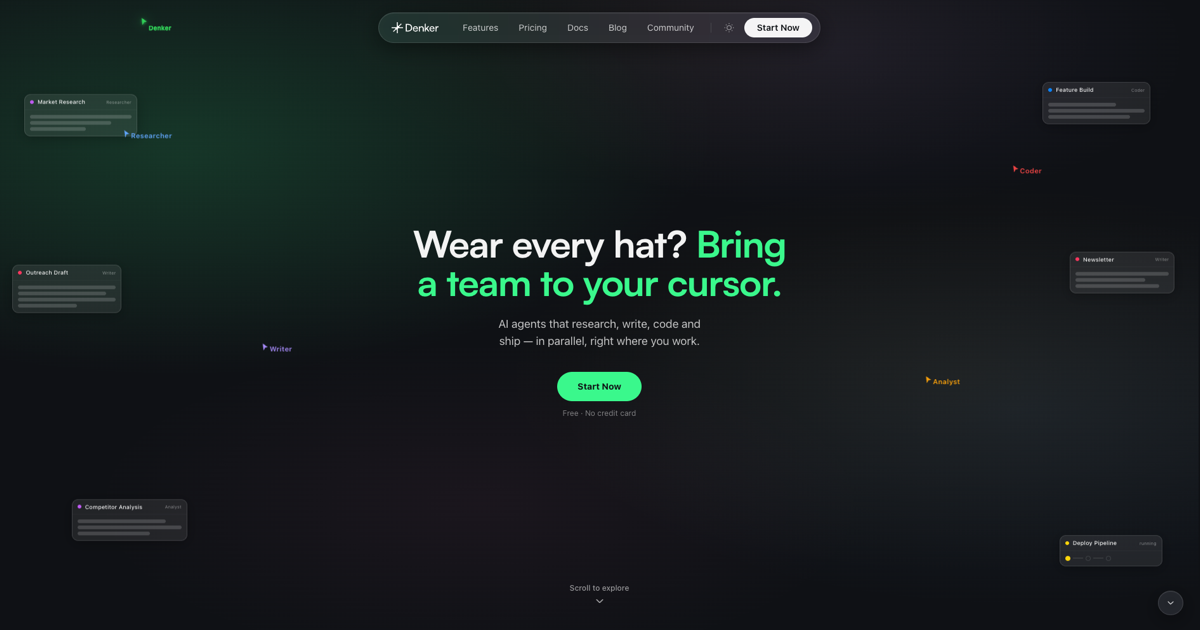
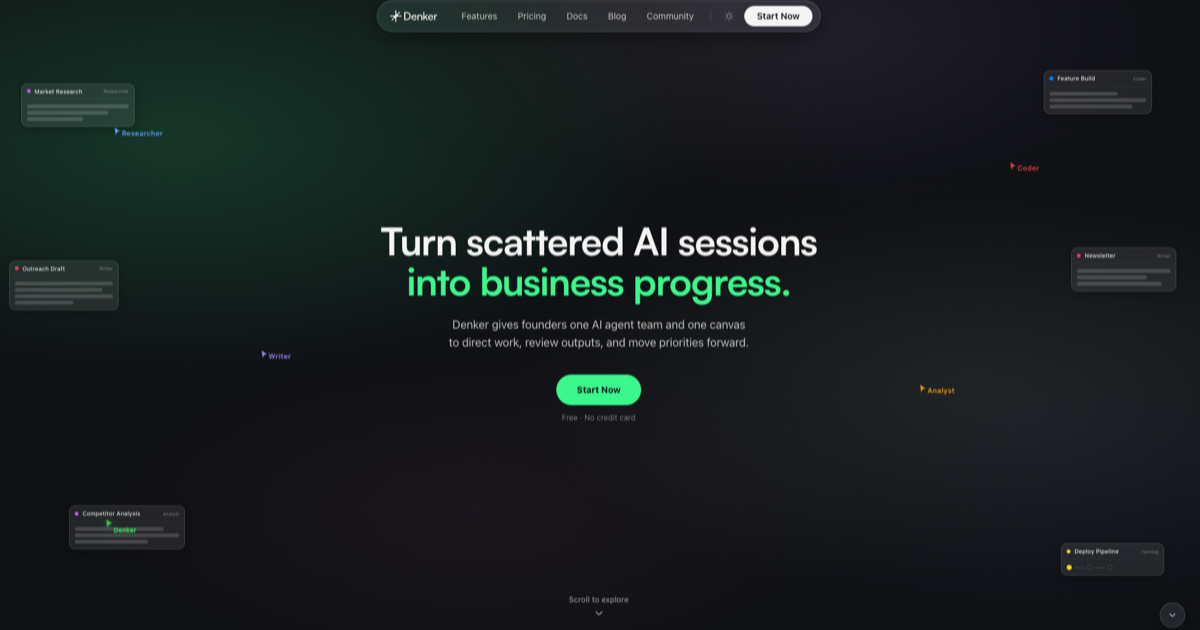
fix: update landing open graph image

diff --git a/lib/seo.ts b/lib/seo.ts
@@ -11,5 +11,5 @@ export const DEFAULT_OG_IMAGE = {
   url: `${SITE_URL}/og-image.png`,
   width: 1200,
   height: 630,
-  alt: "Denker — turn scattered AI sessions into business progress",
+  alt: "Denker — Turn scattered AI sessions into business progress",
 } as const;
